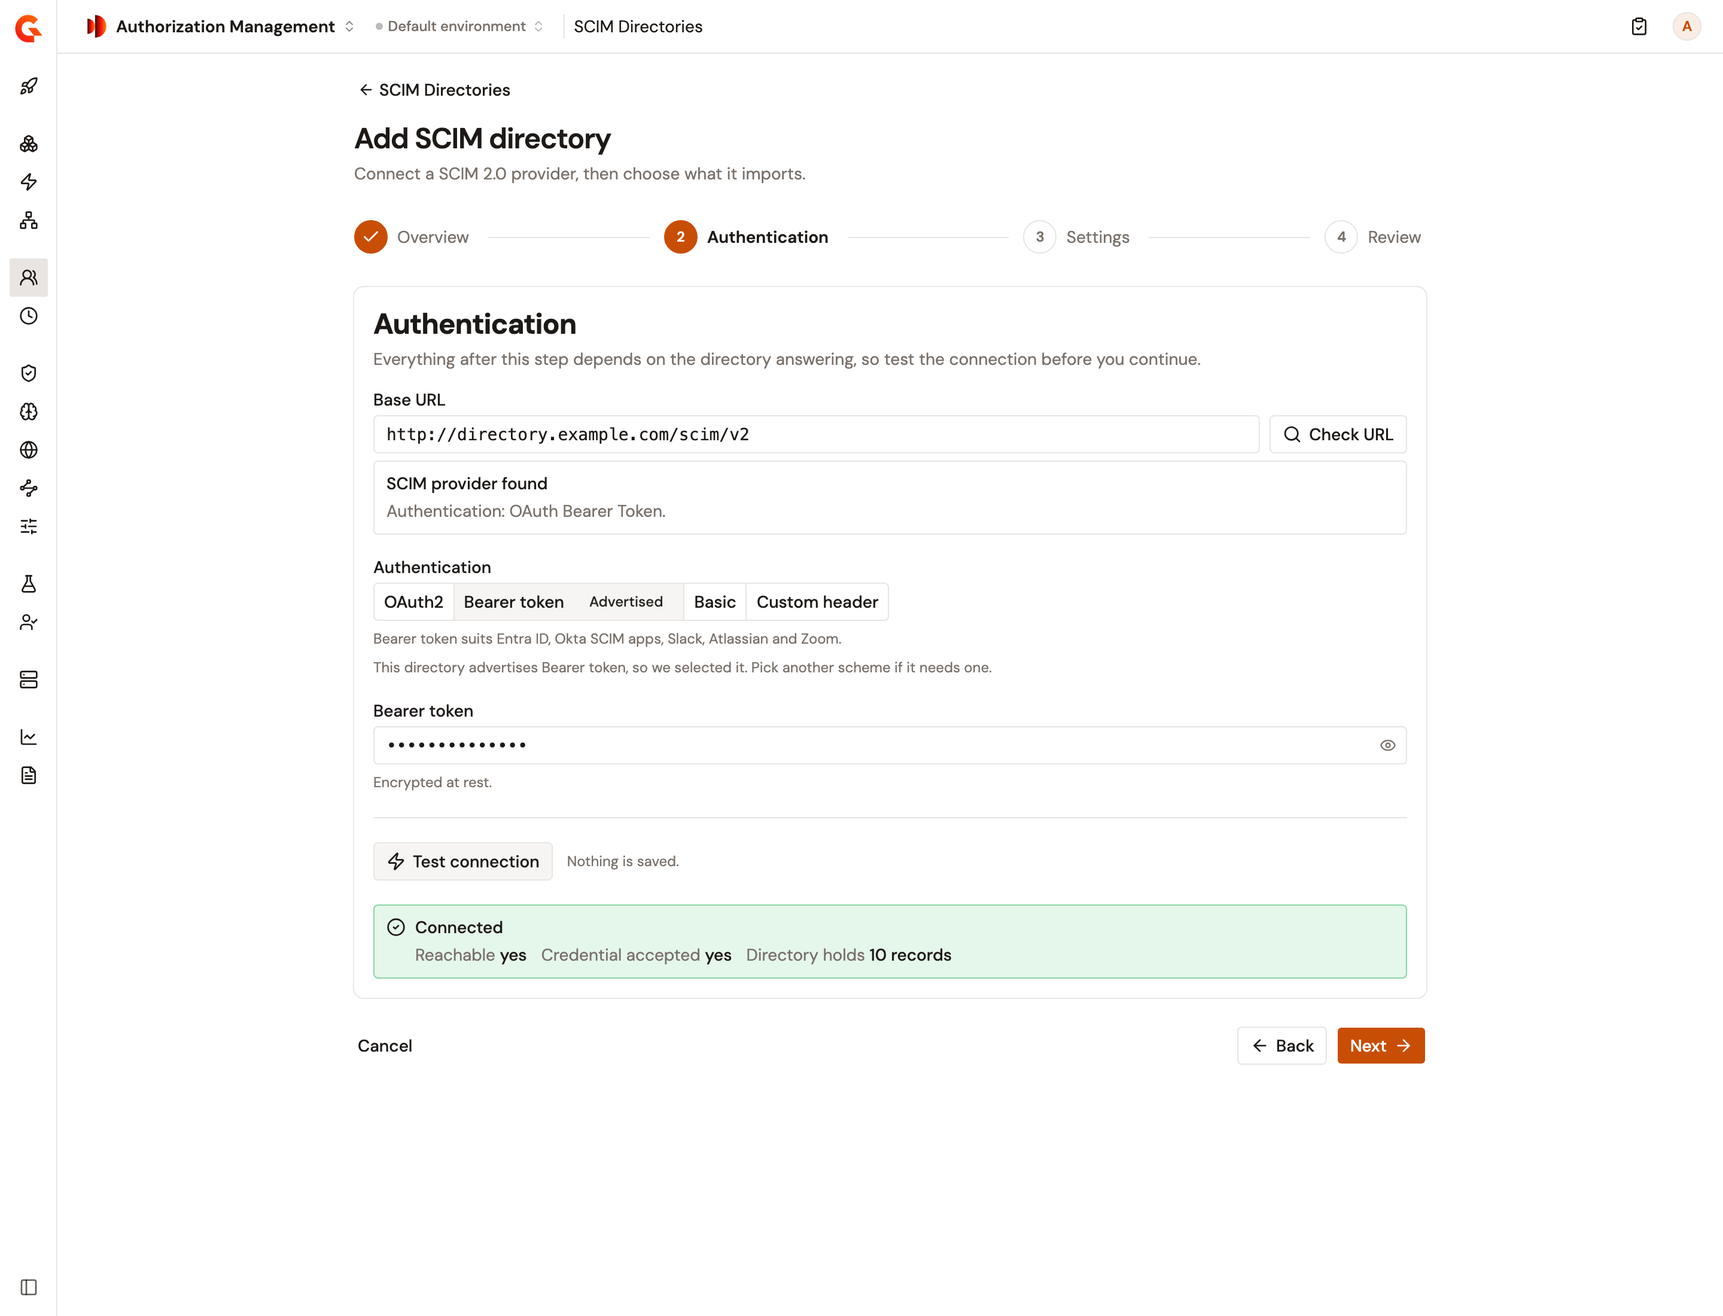
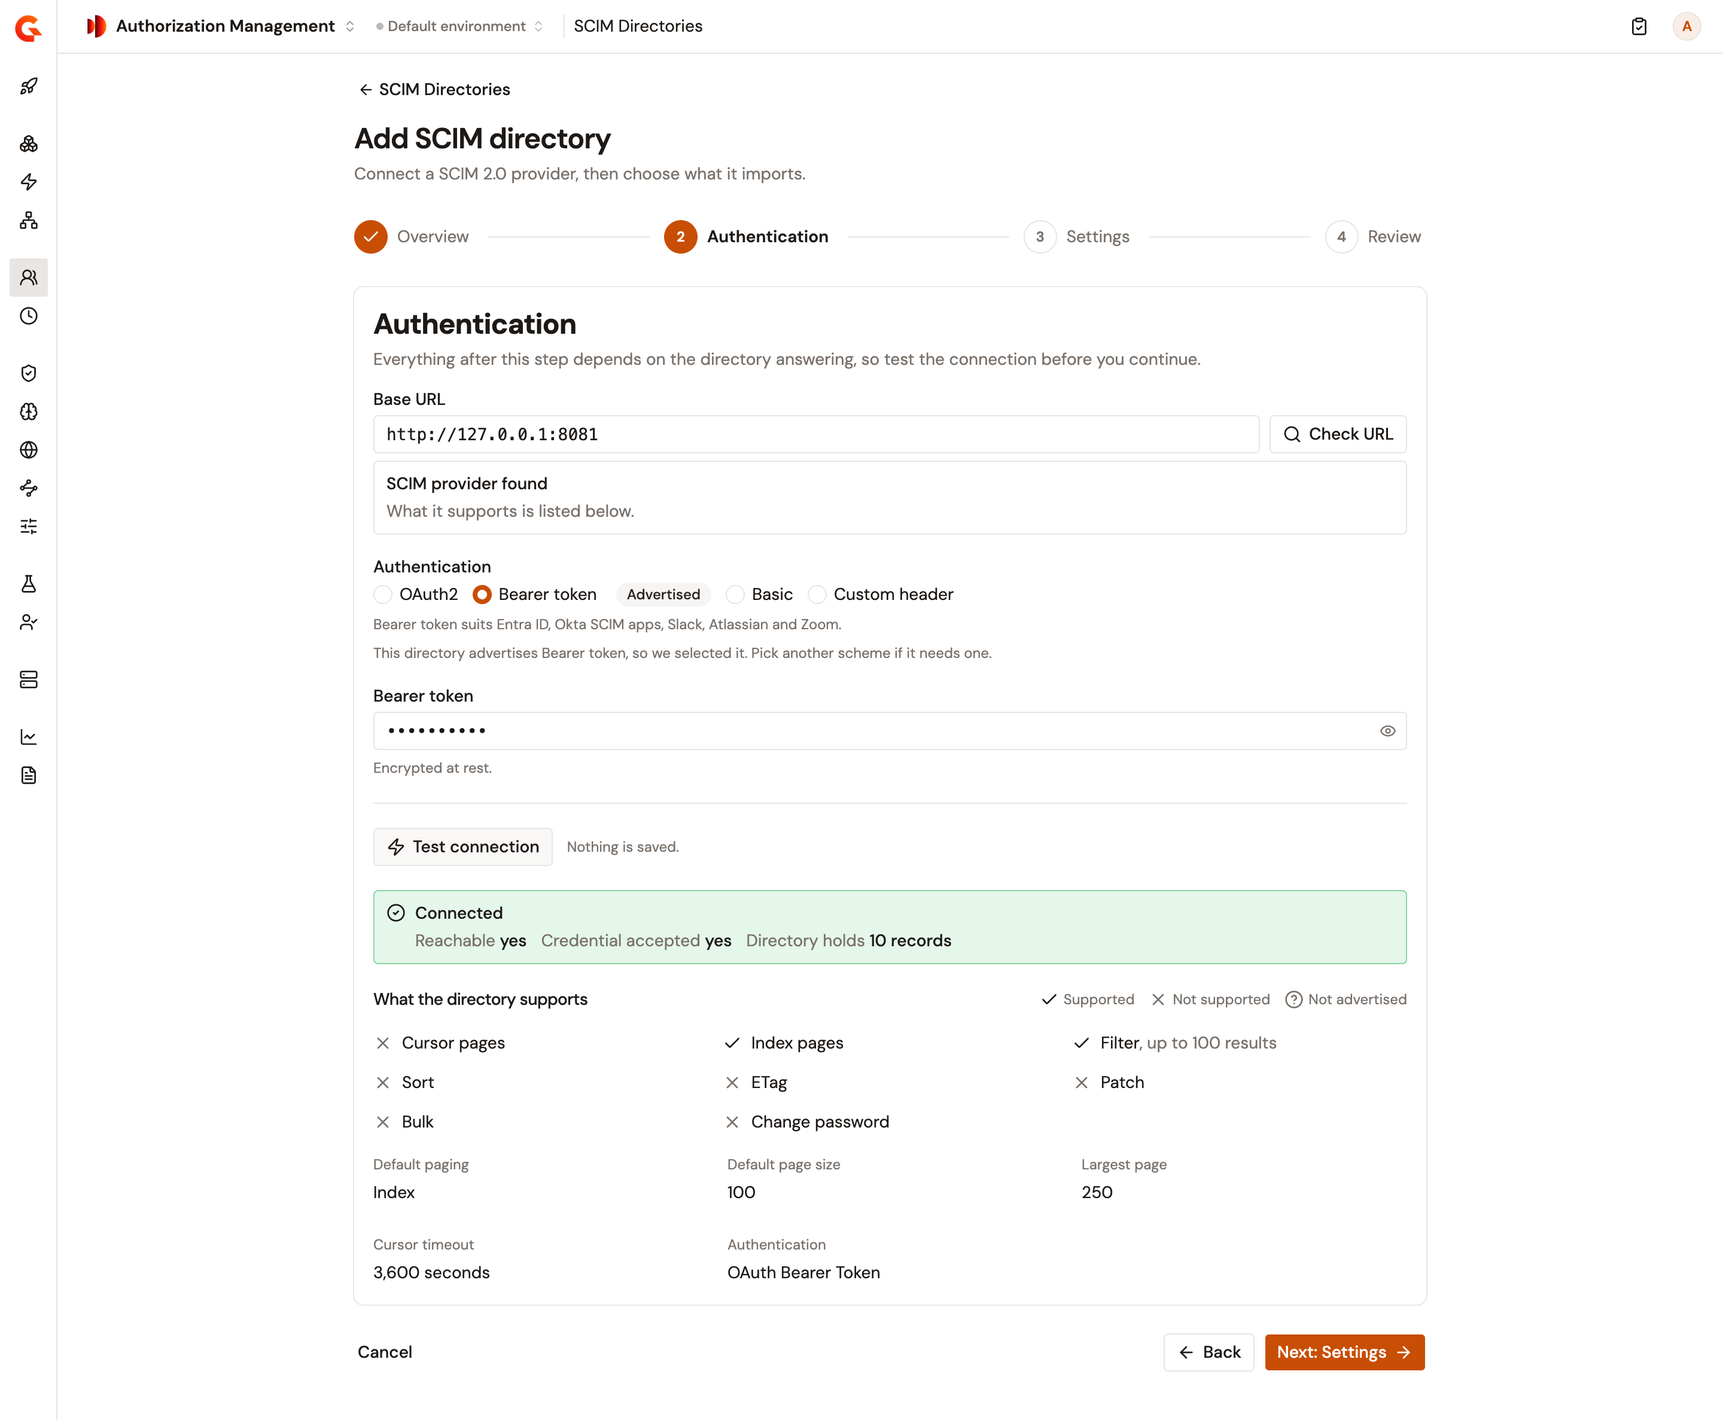
docs(gamma-4.13): match the SCIM directory pages to the current UI (AUTHZ-1)
Document managing and purging the principals a directory imported, the
capabilities panel and Read again, and the Id taken by another type skip
reason. Fix the delete dialog labels, the Source filter, the checkbox
wording of the settings, and what a Users only sync does to memberships.
Retake the Authentication, Settings, and Entities captures on a local
stack running authz module 3.1.1, and add the Entities section to the
release notes.

diff --git a/docs/gamma/4.13/authorization-management/directories/sync-principals-from-a-scim-directory.md b/docs/gamma/4.13/authorization-management/directories/sync-principals-from-a-scim-directory.md
@@ -27,7 +27,7 @@ To add a directory, complete the following steps:
 6. In **Base URL**, enter the base URL of the directory's SCIM API, starting with `http://` or `https://` and without a query string.
 7. Click **Check URL**.
 
-    Gravitee reads the configuration the directory publishes, without a credential. When the directory advertises one authentication scheme that Gravitee supports, that scheme is selected and marked **Advertised**.
+    Gravitee reads the configuration the directory publishes, without a credential. **What the directory supports** lists the features it advertises, such as cursor pages, index pages, and filters, each marked **Supported**, **Not supported**, or **Not advertised**. When the directory advertises one authentication scheme that Gravitee supports, that scheme is marked **Advertised**. It's also selected if you haven't entered a credential yet.
 8. Under **Authentication**, select the scheme the directory accepts, and then complete its fields:
 
     | Scheme | Fields |
@@ -42,7 +42,7 @@ To add a directory, complete the following steps:
 
     **Next** stays unavailable until the directory answers and accepts the credential. The test saves nothing.
 
-    <figure><img src="../.gitbook/assets/gamma-authz-scim-add-directory-authentication.png" alt="The Authentication step of Add SCIM directory, with SCIM provider found under the base URL, Bearer token selected and marked Advertised, and a Connected result that reports the directory reachable, the credential accepted, and 10 records"><figcaption><p>The Authentication step after Check URL and Test connection.</p></figcaption></figure>
+    <figure><img src="../.gitbook/assets/gamma-authz-scim-add-directory-authentication.png" alt="The Authentication step of Add SCIM directory, with SCIM provider found, Bearer token selected and marked Advertised, a Connected result that reports the directory reachable, the credential accepted, and 10 records, and the features the directory supports"><figcaption><p>The Authentication step after Check URL and Test connection.</p></figcaption></figure>
 10. Click **Next**.
 11. Review the settings described in the following table, and change the ones your directory needs:
 
@@ -52,11 +52,11 @@ To add a directory, complete the following steps:
     | **Pagination** | How a sync pages through the directory. **As the directory advertises** pages by cursor when the directory advertises cursor paging, and by index otherwise. **Always index** and **Always cursor** hold the directory to one method. | **As the directory advertises** |
     | **Identifier attribute** | The SCIM attribute whose value becomes each user's entity ID. A user with no value for it is keyed on its SCIM `id` instead. For an attribute of an enterprise or custom extension, write the extension's schema URN first, for example `urn:ietf:params:scim:schemas:extension:enterprise:2.0:User:employeeNumber`. | `externalId` |
     | **Sync limit** | The most users and groups, counted together, that a sync accepts. A directory larger than the limit fails the sync before anything is written. The limit stays within the maximum your installation allows, which is 1,000 by default. | The installation's maximum |
-    | **Enabled** | A disabled directory doesn't sync, by hand or on its schedule. | On |
-    | **Deactivate principals absent from a sync** | Deactivates the principals the directory no longer returns. For details, see [What a sync deactivates](#what-a-sync-deactivates). | On |
-    | **Sync on a schedule** | Runs a sync on the **Schedule**, a cron expression of five fields read in UTC: minute, hour, day of month, month, and day of week. The shortest schedule is every minute. | Off |
+    | **Enabled** | A disabled directory doesn't sync, by hand or on its schedule. | Selected |
+    | **Deactivate principals absent from a sync** | Deactivates the principals the directory no longer returns. For details, see [What a sync deactivates](#what-a-sync-deactivates). | Selected |
+    | **Sync on a schedule** | Runs a sync on the **Schedule**, a cron expression of five fields read in UTC: minute, hour, day of month, month, and day of week. The shortest schedule is every minute. | Cleared |
 
-    <figure><img src="../.gitbook/assets/gamma-authz-scim-add-directory-settings.png" alt="The Settings step of Add SCIM directory, with Users and groups, As the directory advertises, externalId, a sync limit of 1000, Enabled and Deactivate principals absent from a sync turned on, and a daily schedule at 02:00 UTC"><figcaption><p>The Settings step with a daily schedule.</p></figcaption></figure>
+    <figure><img src="../.gitbook/assets/gamma-authz-scim-add-directory-settings.png" alt="The Settings step of Add SCIM directory, with Users and groups, As the directory advertises, externalId, a sync limit of 1000, Enabled, Deactivate principals absent from a sync, and Sync on a schedule selected, and a daily schedule at 02:00 UTC"><figcaption><p>The Settings step with a daily schedule.</p></figcaption></figure>
 12. Click **Next**.
 13. Click **Create directory**.
 
@@ -67,7 +67,7 @@ To add a directory, complete the following steps:
 A sync imports the users and the groups its **Sync scope** covers as principals, of type `User` or `Group`, with the source `scim.<slug>`:
 
 * A user's entity ID is the value of its **Identifier attribute**, or its SCIM `id` when the user has no value for it. A group's entity ID is its SCIM `id`.
-* When the sync scope includes groups, each principal gets the groups that list it as a member as its parents. Each such sync rewrites these memberships, so a membership the directory drops disappears at the next sync. A **Users only** sync reads no groups, so the users it writes carry no group memberships.
+* When the sync scope includes groups, each principal gets the groups that list it as a member as its parents. Each such sync rewrites these memberships, so a membership the directory drops disappears at the next sync. A **Users only** sync reads no groups. A user it creates has no group memberships, and a user it updates keeps the memberships it already has.
 * A sync rewrites only the principals whose data changed.
 
 A user principal carries the following attributes. An attribute whose value the directory doesn't send is left out:
@@ -115,13 +115,46 @@ An incremental sync doesn't tell a user who left the directory from a user who d
 A sync deactivates principals in the following cases:
 
 * The directory marks a user inactive with `active: false`. The principal is deactivated whatever **Deactivate principals absent from a sync** is set to. An inactive user who has no principal yet isn't imported.
-* The directory no longer returns a principal, and **Deactivate principals absent from a sync** is on. A sync deactivates only the kinds of principal its **Sync scope** reads, so a **Users only** sync never deactivates groups.
+* The directory no longer returns a principal, and **Deactivate principals absent from a sync** is selected. A sync deactivates only the kinds of principal its **Sync scope** reads, so a **Users only** sync never deactivates groups.
 
 Deactivation runs after a sync has read the whole directory, so a sync that fails while reading deactivates nobody. A deactivated principal stays on the **Entities** page with the **Inactive** status, and Gravitee withdraws it from your PDP gateways. When the directory returns the user as active again, the next sync that reads the user reactivates its principal.
 
 {% hint style="warning" %}
 Deactivating a principal isn't a revocation. A policy that permits a principal by its entity ID keeps granting after the principal is deactivated. Withdraw or edit the policy to cut off access.
 {% endhint %}
+
+## Manage the principals of a directory
+
+The **Entities** section of a directory lists only the principals that the directory imported. To activate, deactivate, or delete some of them, complete the following steps:
+
+1. In **SCIM Directories**, click the name of the directory.
+2. In the directory's sidebar, select **Entities**.
+3. Select the principals.
+4. Click **Activate**, **Deactivate**, or **Delete**. **Deactivate** and **Delete** ask you to confirm.
+
+Deleting a principal removes it from Authorization Management only, and the directory keeps the user or group. The members of a deleted group stay, without that group. Deleting a principal doesn't revoke a policy that names it by its entity ID.
+
+While the directory is enabled, its next full sync undoes these changes. It activates every principal that the directory still holds, and writes back the principals you deleted. When **Deactivate principals absent from a sync** is selected, it also deactivates the principals that the directory no longer holds.
+
+### Purge the principals of a directory
+
+A purge deletes the principals that a directory imported. Gravitee refuses a purge while the directory is enabled, because its next sync writes the principals back. To purge a directory, complete the following steps:
+
+1. In **SCIM Directories**, click the name of the directory.
+2. In the directory's sidebar, select **Settings**.
+3. Click **Edit**.
+4. Clear **Enabled**, and then click **Save changes**.
+5. In the directory's sidebar, select **Entities**.
+6. Click **Purge**.
+7. In the **Purge principals** dialog, select what to purge:
+    * **All users and groups**: deletes every principal the directory imported.
+    * **Users only**: the groups stay, with no user members.
+    * **Groups only**: the users stay, and lose these groups. A user keeps its other groups.
+8. Click the button that confirms the purge, for example **Purge 13 principals**.
+
+    The purge runs in the background, and its report opens. You can't undo a purge. To import the principals again, enable the directory and sync it.
+
+A purge is listed in **Sync History** and **All sync activity** as **Purge all**, **Purge users**, or **Purge groups**. A policy that names a purged principal by its entity ID keeps matching it.
 
 ## Edit a directory
 
@@ -134,7 +167,9 @@ To change a directory, complete the following steps:
 
 The slug stays locked. The saved secret is never shown: leave it to keep it, or click **Replace** to enter a new one. Changing the **Base URL** or the **Token endpoint** requires a new secret and a passing **Test connection** before **Save changes** is available. Changing the authentication scheme requires a new secret.
 
-Changing the **Identifier attribute** gives the directory's users new entity IDs. The next sync, a full one, creates their principals under the new IDs, and deactivates the old principals only when **Deactivate principals absent from a sync** is on. Policies that name the old IDs keep naming them. Narrowing the **Sync scope** leaves the principals of the kind the directory no longer reads as they are.
+Changing the **Identifier attribute** gives the directory's users new entity IDs. The next sync, a full one, creates their principals under the new IDs, and deactivates the old principals only when **Deactivate principals absent from a sync** is selected. Policies that name the old IDs keep naming them. Narrowing the **Sync scope** leaves the principals of the kind the directory no longer reads as they are.
+
+The **Settings** section also shows **What the directory supports**, read from the directory each time the section opens. A sync pages the directory by the features Gravitee last stored, and reads them again when they get old. To store a new read now, click **Read again**.
 
 ## Delete a directory
 
@@ -142,9 +177,9 @@ To delete a directory, complete the following steps:
 
 1. In **SCIM Directories**, click the name of the directory.
 2. Click **Delete**.
-3. In the **Delete SCIM directory?** dialog, click **Delete**.
+3. In the **Delete SCIM directory** dialog, click **Delete directory**.
 
-Deleting a directory removes it, its stored secret, and its sync history. The principals it imported stay, marked inactive, and deleting the directory doesn't revoke anyone's access. A directory isn't deleted while one of its syncs is running. Its slug stays taken while its principals exist, so a new directory takes the slug only after you delete them.
+Deleting a directory removes it, its stored secret, and its sync history. The principals it imported stay, marked inactive, and deleting the directory doesn't revoke anyone's access. A directory isn't deleted while one of its syncs is running. Its slug stays taken while its principals exist, so a new directory takes the slug only after you delete them. To free the slug when you delete the directory, [purge its principals](#purge-the-principals-of-a-directory) first.
 
 ## Verification
 
@@ -154,11 +189,11 @@ To verify the directory imports its principals as expected, follow these steps:
 2. Click **Sync now**.
 3. In the sync's report, check that the outcome reads **Success**, and that **Records not written** lists no record you expected to import.
 4. In the Authorization Management sidebar, select **Entities** in the **Policy Structure** group.
-5. On the **Principals** tab, open the **All sources** list, and select the directory's source, `scim.<slug>`.
+5. On the **Principals** tab, click **Source**, and select the directory's source, `scim.<slug>`.
 
     The directory's users and groups are listed with that source and the **Active** status.
 
-    <figure><img src="../.gitbook/assets/gamma-authz-scim-entities.png" alt="The Entities page on the Principals tab, filtered to the scim.workforce source, listing imported users and a group with the source scim.workforce and the Active status"><figcaption><p>Principals imported by a directory with the slug workforce.</p></figcaption></figure>
+    <figure><img src="../.gitbook/assets/gamma-authz-scim-entities.png" alt="The Entities page on the Principals tab, with one source selected in the Source filter, listing imported users and a group with the source scim.workforce and the Active status"><figcaption><p>Principals imported by a directory with the slug workforce.</p></figcaption></figure>
 
 ## Next steps
 

diff --git a/docs/gamma/4.13/authorization-management/directories/review-scim-sync-runs.md b/docs/gamma/4.13/authorization-management/directories/review-scim-sync-runs.md
@@ -24,7 +24,7 @@ A sync that succeeds but reports warnings reads **Completed with warnings**, and
 
 A report counts what the sync did with the records it fetched. A sync rewrites only the principals whose data changed, and counts the principals it leaves as they were as **Unchanged**. Below the counts, the report holds two lists:
 
-* **Entities** lists the principals the sync handled, each with a reason: **Created**, **Updated**, **Parents reconciled**, **Deactivated**, or **Unchanged**. **Parents reconciled** marks a user that the sync didn't read, whose group memberships it updated from the groups. When the list is full, changes take the place of unchanged principals.
+* **Entities** lists the principals the sync handled, each with a reason: **Created**, **Updated**, **Parents reconciled**, **Deactivated**, or **Unchanged**. **Parents reconciled** marks a user that the sync didn't read, whose group memberships it updated from the groups. The report of a purge lists the principals it removed as **Deleted**. When the list is full, changes take the place of unchanged principals.
 * **Records not written** lists the records counted as **Skipped**, each with the reason. Most of them produced no principal.
 
 Each list shows up to 100 records. The line under **Entities** says how many changes it doesn't list, and the line under **Records not written** says how many records it doesn't list.
@@ -37,8 +37,9 @@ The following table describes each reason a record appears under **Records not w
 | --- | --- | --- |
 | **Owned by another source** | An entity with the same ID already exists from another source, which the **Owner** column names. | Delete that entity for the directory's next sync to import the record. |
 | **Inactive** | The directory marks the user `active: false`, and the directory has no principal for the user yet, so none is created. | Activate the user in the directory if the user needs a principal. |
-| **Invalid id** | The record's entity ID isn't valid. A user's entity ID is the value of its identifier attribute, or its SCIM `id` when it has no value for it, and a group's entity ID is its SCIM `id`. A valid entity ID holds at most 255 characters, isn't `.` or `..`, and holds no whitespace, control character, double quote, backslash, `/`, `%`, `;`, `?`, or `#`. | Choose an identifier attribute whose values meet these rules. A group, or a user with no value for the identifier attribute, keeps the SCIM `id` the directory gives it. |
+| **Invalid id** | The record's entity ID isn't valid. A user's entity ID is the value of its identifier attribute, or its SCIM `id` when it has no value for it, and a group's entity ID is its SCIM `id`. A valid entity ID holds at most 255 characters, isn't `.` or `..`, and holds no whitespace, control character, invisible formatting character such as a zero-width space, double quote, backslash, `/`, `%`, `;`, `?`, or `#`. | Choose an identifier attribute whose values meet these rules. A group, or a user with no value for the identifier attribute, keeps the SCIM `id` the directory gives it. |
 | **Duplicate id** | Another record of the same sync resolved to the same entity ID. | Choose an identifier attribute whose values are unique across the directory. |
+| **Id taken by another type** | The directory already imported an entity with the same ID as another type. For example, a user's entity ID matches the SCIM `id` of a group that an earlier sync imported. | Delete that entity for the directory's next sync to import the record, or choose an identifier attribute whose values don't match it. |
 | **Circular group nesting** | Nested groups form a loop. These groups are imported without their parent groups. | Break the loop in the directory. |
 
 ## Read a sync that didn't complete

diff --git a/docs/gamma/4.13/platform-management/gamma-release-notes.md b/docs/gamma/4.13/platform-management/gamma-release-notes.md
@@ -286,6 +286,7 @@ Authorization Management imports principals from SCIM 2.0 directories. A directo
 * A sync runs from **Sync now** or **Full resync**, or on a cron schedule read in UTC. Once a sync has succeeded, later syncs usually read only the users that changed and every group in their scope. **Full resync** reads the whole directory, and so does a sync when the last full one is more than a day old, by default.
 * A user the directory marks inactive is deactivated. While **Deactivate principals absent from a sync** is on, so is a principal the directory no longer returns. Deactivating a principal doesn't revoke a policy that permits it by its entity ID.
 * A directory larger than its sync limit fails the sync before anything is written.
+* The **Entities** section of a directory lists the principals it imported, and activates, deactivates, or deletes them in bulk. **Purge** deletes the directory's users, groups, or both, while the directory is disabled.
 * **All sync activity** lists the syncs of every directory. Each report lists the principals the sync handled, and the records it skipped with the reason.
 * See [Sync principals from a SCIM directory](../authorization-management/directories/sync-principals-from-a-scim-directory.md) and [Review SCIM sync runs](../authorization-management/directories/review-scim-sync-runs.md).
 
